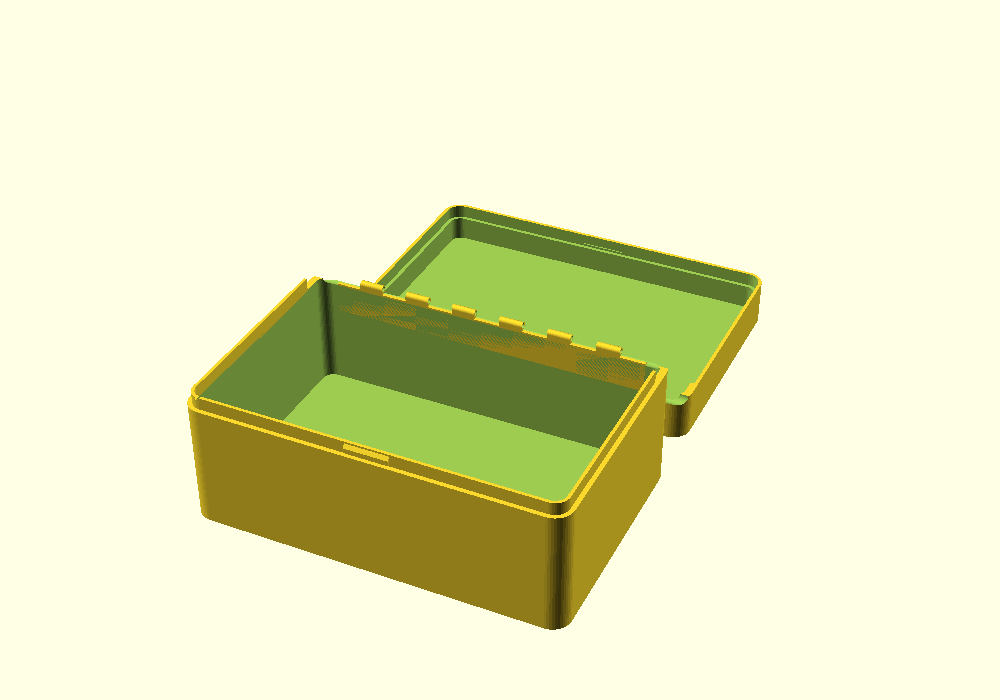
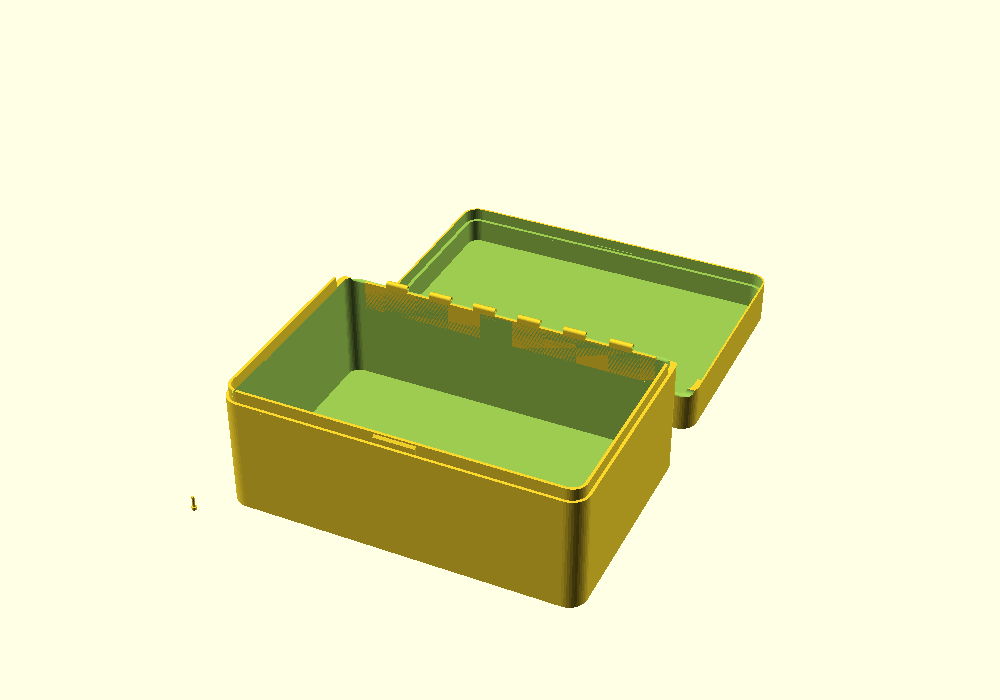
Flush hinge: 0.8mm rod pin, blind far end, glue-in cap, 2mm walls
The flush hinge now targets a 0.8mm rod/wire pin and works at 2mm walls
(2mm knuckles), with a tighter 0.15 pin clearance to keep skin around
the bore. Retention is captive: a plug fused inside the far knuckle
makes that end blind so the rod cannot slide out, and a small printed
cap (emitted beside the parts) glues its stem into the first knuckle's
bore behind the rod. Both are coaxial with the pivot, so the swing never
touches them. The rod slides in along the seam - the axis line runs
through open air behind the rounded back corner, so no entry tunnel is
needed - and the echo() reports the cut length.

The seam cove is also corrected: nearest corner material sits
(recession - wall/2) from the buried axis, so the cove now runs into
each corner exactly as far as the swing requires instead of the full
box length, and the top-level bore/entry-groove cut is dropped for
flush (the pin path lives entirely inside the knuckles). The snap ridge
auto-clamps on thin walls so its groove leaves at least 0.4mm of skin
in the rebated lid wall.

Changed region(s): [[0.186, 0.27, 0.713, 0.9], [0.527, 0.33, 0.775, 0.51]]

diff --git a/README.md b/README.md
@@ -38,7 +38,7 @@ hinged_box(
 | `"piano"` (default) | One continuous knuckle hinge across the back seam — even load spread, sturdiest | 1.75mm filament offcut |
 | `"knuckle"` | `hinge_count` discrete knuckle hinges — lighter, classic look | 1.75mm filament offcut |
 | `"crate"` | Chunky raised-lug crate hinges, lid opens past 180° — the rugged/ammo-box look | 4mm rod, or the printed pins emitted beside the parts |
-| `"flush"` | Fully hidden hinge: pivot buried mid-wall, knuckle OD = wall thickness, zero protrusion; lid opens ~120°, not 180° | ~`wall - 1.4` rod/wire (1mm paperclip at 2.4 walls), inserted through the port on the rounded back corner |
+| `"flush"` | Fully hidden hinge: pivot buried mid-wall, knuckle OD = wall thickness, zero protrusion; works down to 2mm walls; lid opens ~120°, not 180° | 0.8mm rod/wire, slid in along the seam; far end blind, printed cap glues into the first knuckle |
 
 The hinge geometry itself comes from
 [OpenSCAD_hinge](https://github.com/morganp/OpenSCAD_hinge)'s `piano_hinge` /
@@ -49,10 +49,16 @@ each printed part gets its own fused leaf.
 
 `hinge_type="flush"` buries the pivot in the middle of the back wall: the knuckles are sized
 to the wall thickness and nothing protrudes past the outer face — the hinge reads as a plain
-seam with a knuckle line inside a full-length cove. The trade-offs are a ~120° opening
-(anything through a mid-wall pivot must be coaxial knuckles, and the rims need the cove to
-swing past the buried axis) and a thin pin, `wall - 1.4` (a 1mm paperclip wire at the default
-2.4 wall) pushed in through the small port on the rounded back corner.
+seam with a knuckle line inside a cove. Works down to 2mm walls (2mm knuckles). The trade-off
+is a ~120° opening: anything through a mid-wall pivot must be coaxial knuckles, and the rims
+need the cove to swing past the buried axis.
+
+The pin is a 0.8mm rod or wire (`pin_d` auto). The axis line runs through open air behind
+the rounded back corner, so the rod slides straight in along the seam with no tunnel; a plug
+fused inside the far knuckle makes that end blind so the rod cannot walk out, and the small
+printed cap (emitted beside the parts) glues into the first knuckle's bore to close the
+entry. Cap and plug are coaxial with the pivot, so the swing never touches them. The
+`echo()` output states the rod cut length.
 
 | Print pose | Closed |
 |---|---|